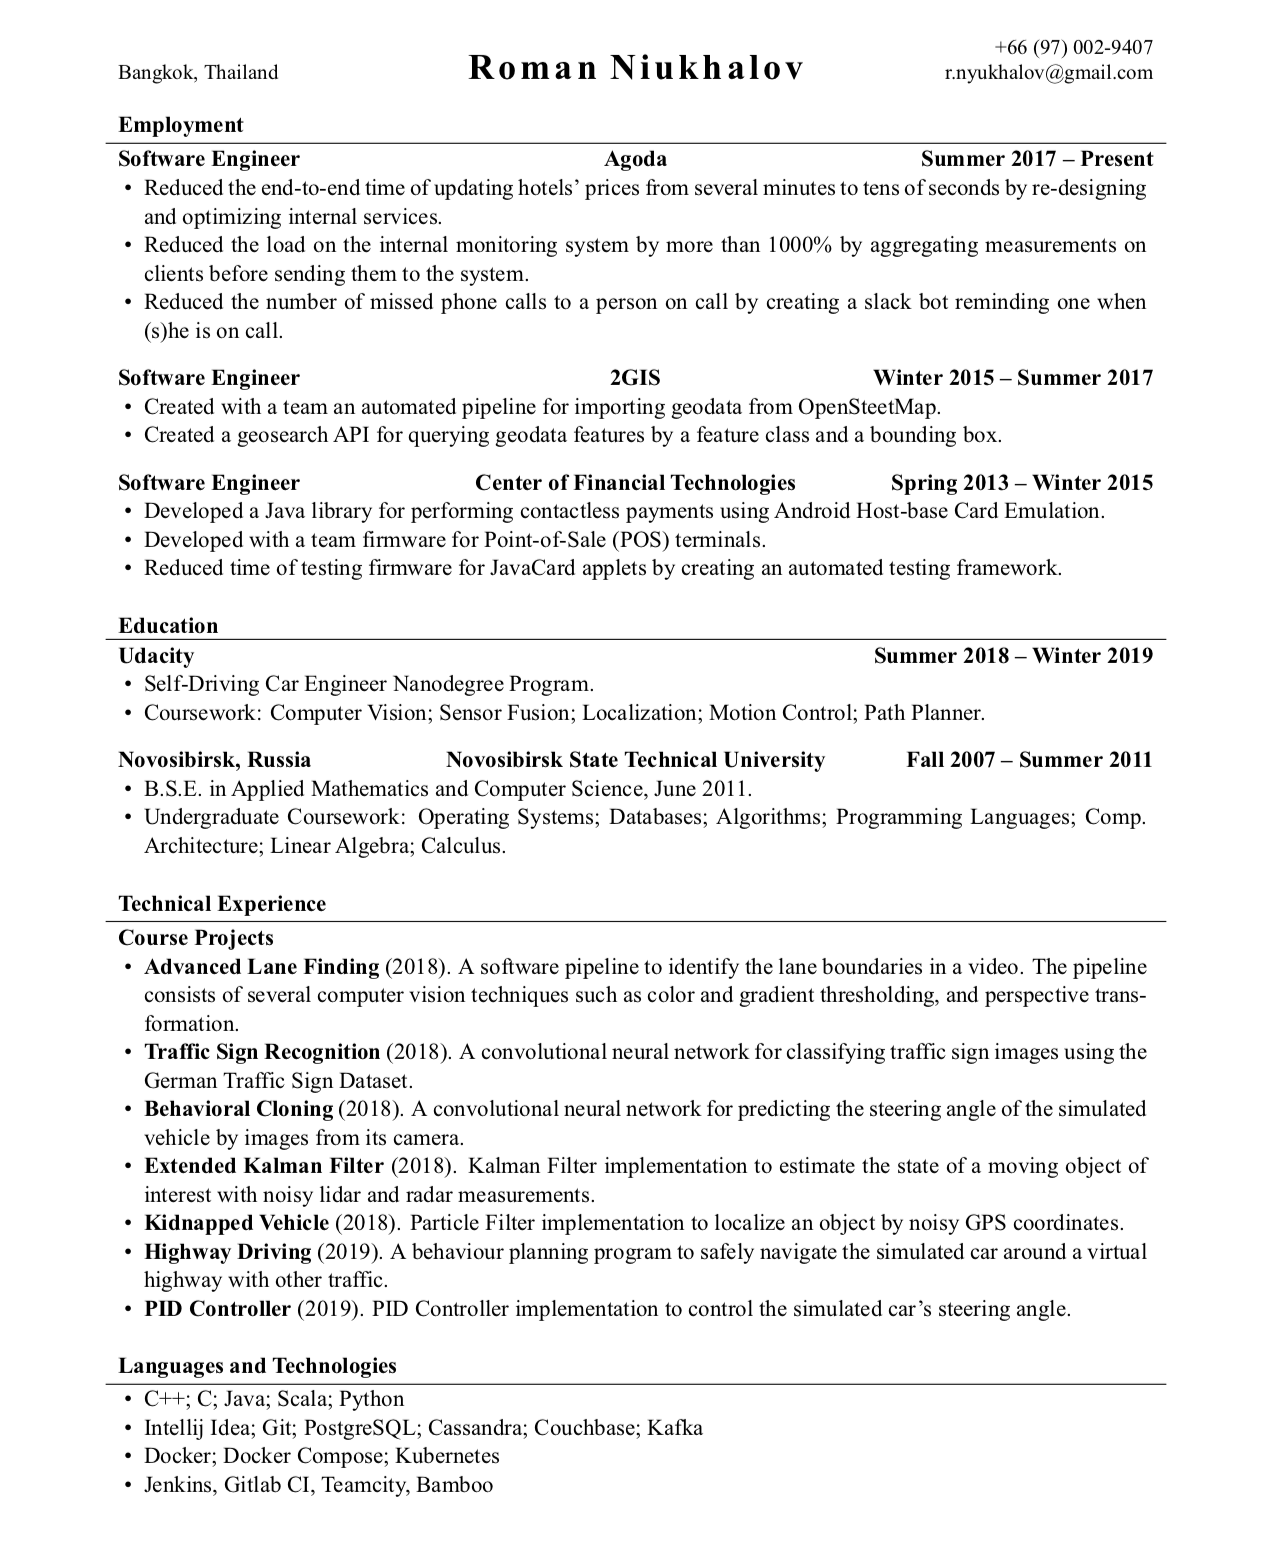
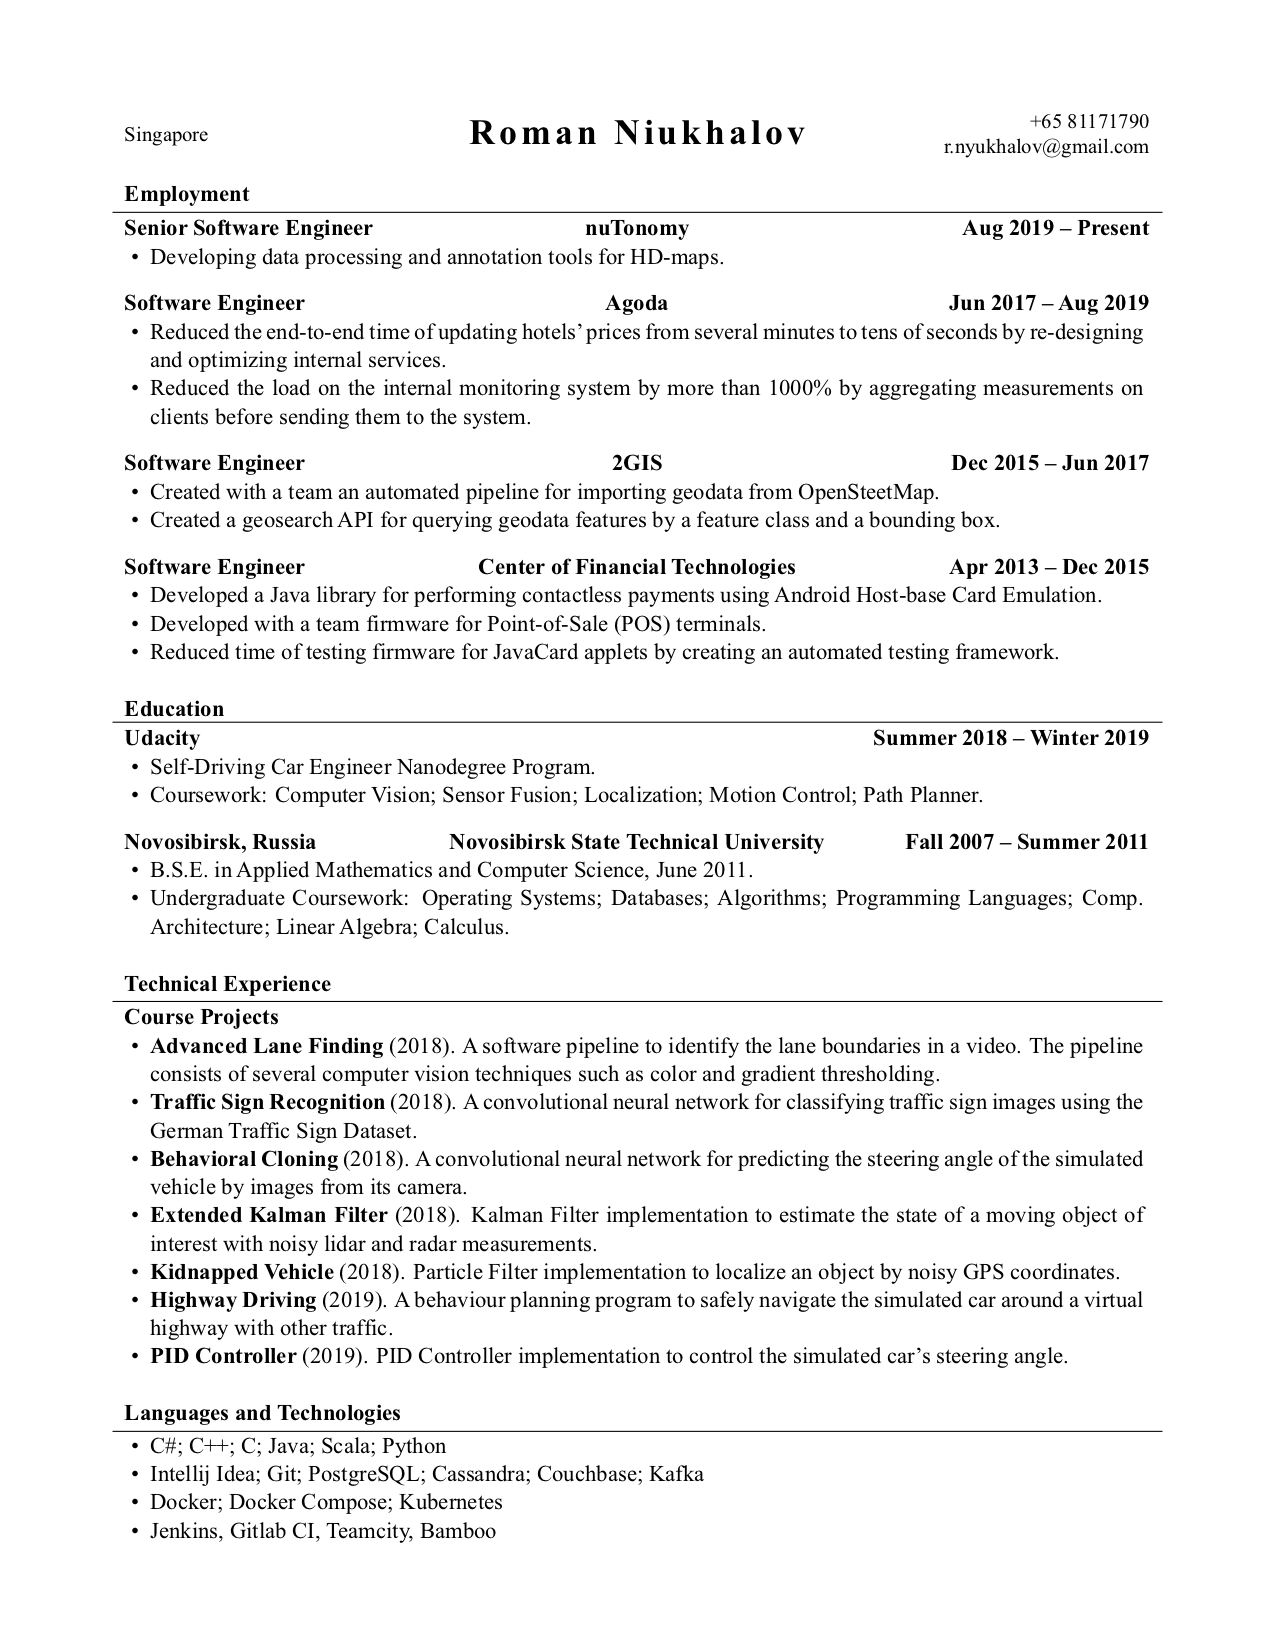
Update CV

Changed region(s): [[0.0918, 0.0308, 0.9184, 0.9551]]

diff --git a/niukhalov_cv.tex b/niukhalov_cv.tex
@@ -28,8 +28,8 @@
 
 % Set applicant's personal data for header
 \name{Roman Niukhalov}
-\address{Bangkok, Thailand}
-\contacts{+66 (97) 002-9407 \linebreak r.nyukhalov@gmail.com}
+\address{Singapore}
+\contacts{+65 81171790 \linebreak r.nyukhalov@gmail.com}
 
 \begin{document}
 
@@ -38,22 +38,27 @@
 
 	% Print the content
 	\begin{cvsection}{Employment}
-		\begin{cvsubsection}{Software Engineer}{Agoda}{Summer 2017 -- Present}
+		\begin{cvsubsection}{Senior Software Engineer}{nuTonomy}{Aug 2019 -- Present}
 			\begin{itemize}
-				\item Reduced the end-to-end time of updating hotels' prices from several minutes to tens of seconds by re-designing and optimizing internal services.
-				\item Reduced the load on the internal monitoring system by more than 1000\% by aggregating measurements on clients before sending them to the system.
-        \item Reduced the number of missed phone calls to a person on call by creating a slack bot reminding one when (s)he is on call.
+				\item Developing data processing and annotation tools for HD-maps.
 			\end{itemize}
 		\end{cvsubsection}
 
-		\begin{cvsubsection}{Software Engineer}{2GIS}{Winter 2015 -- Summer 2017}
+		\begin{cvsubsection}{Software Engineer}{Agoda}{Jun 2017 -- Aug 2019}
+			\begin{itemize}
+				\item Reduced the end-to-end time of updating hotels' prices from several minutes to tens of seconds by re-designing and optimizing internal services.
+				\item Reduced the load on the internal monitoring system by more than 1000\% by aggregating measurements on clients before sending them to the system.
+			\end{itemize}
+		\end{cvsubsection}
+
+		\begin{cvsubsection}{Software Engineer}{2GIS}{Dec 2015 -- Jun 2017}
 			\begin{itemize}
 				\item Created with a team an automated pipeline for importing geodata from OpenSteetMap.
 				\item Created a geosearch API for querying geodata features by a feature class and a bounding box.
 			\end{itemize}
 		\end{cvsubsection}
 
-		\begin{cvsubsection}{Software Engineer}{Center of Financial Technologies}{Spring 2013 -- Winter 2015}
+		\begin{cvsubsection}{Software Engineer}{Center of Financial Technologies}{Apr 2013 -- Dec 2015}
 			\begin{itemize}
         \item Developed a Java library for performing contactless payments using Android Host-base Card Emulation.
         \item Developed with a team firmware for Point-of-Sale (POS) terminals.
@@ -81,7 +86,7 @@
 	\begin{cvsection}{Technical Experience}
 		\begin{cvsubsection}{Course Projects}{}{}
 			\begin{itemize}
-				\item \textbf{Advanced Lane Finding} (2018). A software pipeline to identify the lane boundaries in a video. The pipeline consists of several computer vision techniques such as color and gradient thresholding, and perspective transformation.
+				\item \textbf{Advanced Lane Finding} (2018). A software pipeline to identify the lane boundaries in a video. The pipeline consists of several computer vision techniques such as color and gradient thresholding.
 				\item \textbf{Traffic Sign Recognition} (2018). A convolutional neural network for classifying traffic sign images using the German Traffic Sign Dataset.
 				\item \textbf{Behavioral Cloning} (2018). A convolutional neural network for predicting the steering angle of the simulated vehicle by images from its camera.
 				\item \textbf{Extended Kalman Filter} (2018). Kalman Filter implementation to estimate the state of a moving object of interest with noisy lidar and radar measurements.
@@ -95,7 +100,7 @@
 	\begin{cvsection}{Languages and Technologies}
 		\begin{cvsubsection}{}{}{}
 			\begin{itemize}
-				\item C++; C; Java; Scala; Python
+				\item C\#; C++; C; Java; Scala; Python
 				\item Intellij Idea; Git; PostgreSQL; Cassandra; Couchbase; Kafka
 				\item Docker; Docker Compose; Kubernetes
 				\item Jenkins, Gitlab CI, Teamcity, Bamboo

diff --git a/README.md b/README.md
@@ -20,4 +20,9 @@ The class features the following commands:
 
 ## Build Instructions
 - Make sure `lualatex` (see http://www.luatex.org/download.html) is installed on your machine and is available in the terminal or a command line client of your choice.
+  - Install `lualatex` via `brew`
+    ```
+    brew cask install mactex
+    brew cask install texmaker
+    ```
 - In the terminal or a command line client of your choice, go to the folder containing `niukhalov_cv.tex` and `cv.cls`, and run the following command: `lualatex niukhalov_cv.tex`.
